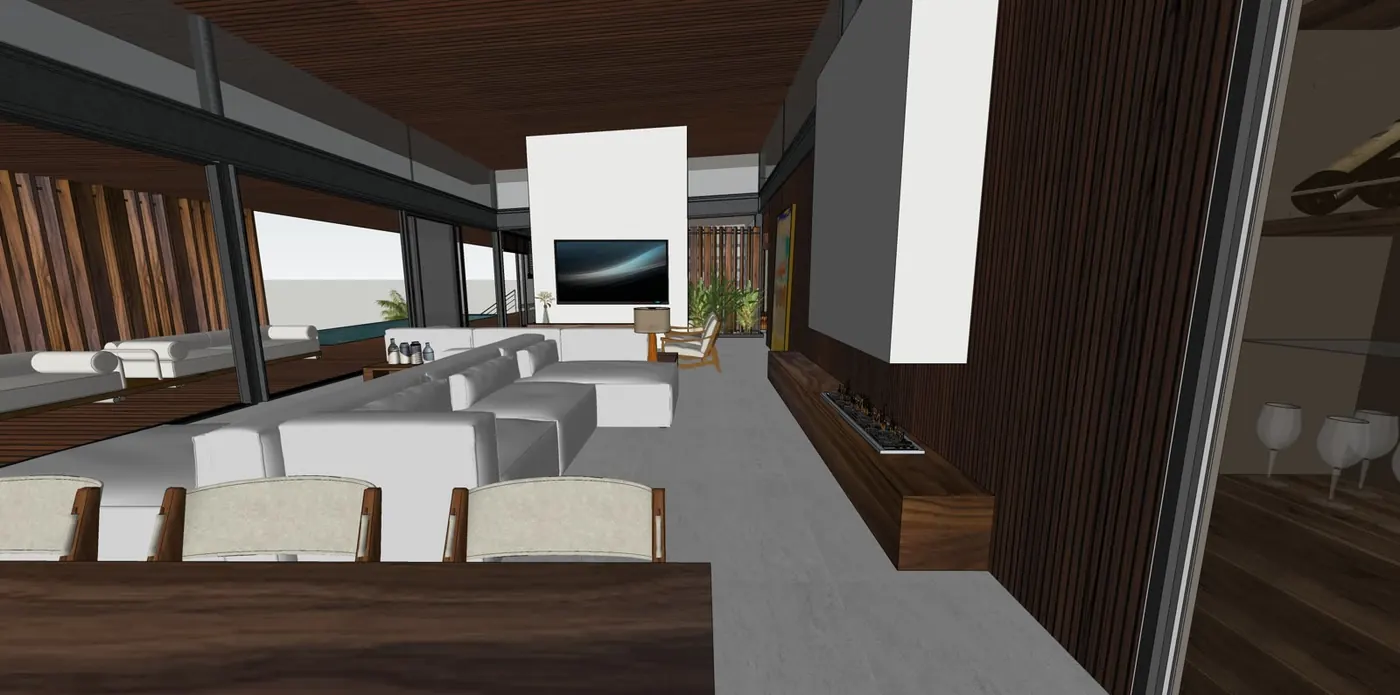
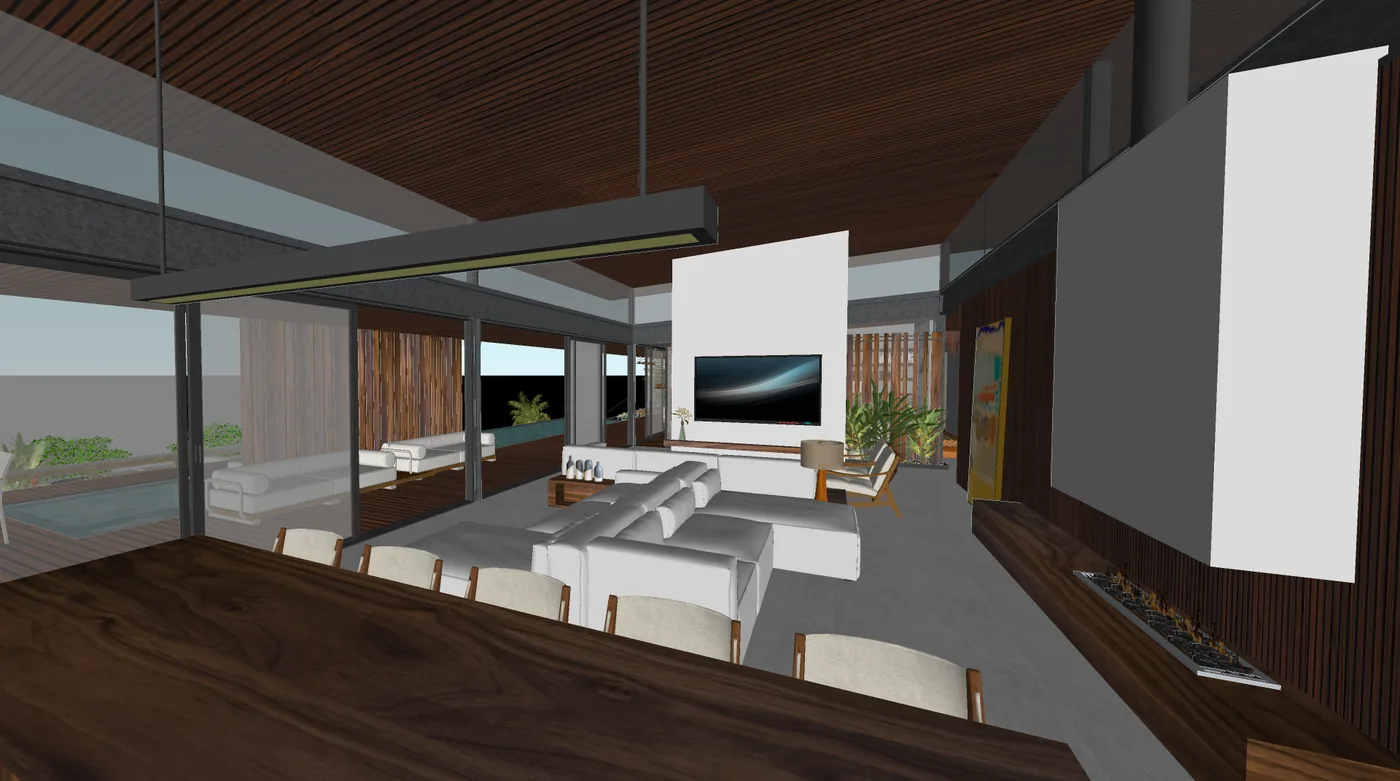
Corrige os pares render/foto do Reserva do Mediterraneo
Quatro das cinco comparacoes mostravam render e foto de ambientes
diferentes. Os renders corretos foram achados no acervo 3D do projeto
(Drive, "Imagens 3d" e "Imagens 3d para video") batendo camera a camera:

  02 fachada  -> img 46      (era um render de jardim, errado)
  06 living   -> img 31      (mesmo ambiente, agora no enquadramento certo)
  10 cozinha  -> img 65.1    (mostrava a sala, errado)
  07 estar    -> img 27      (par novo, camera identica)
  09 deck     -> img 18      (par novo, camera identica)

Deck-piscina (03) e patio interno (16) nao tem render correspondente no
acervo, entao deixaram de ser comparaveis e viraram fotos simples, em
vez de exibir um par falso.

Os renders passam a ser gerados em 1400x781, o mesmo tamanho das fotos.
Antes saiam em 1400x695: com object-fit cover num quadro 16/10 os dois
lados eram recortados de forma diferente e a alca do comparador nunca
alinhava as duas imagens.

diff --git a/index.html b/index.html
@@ -335,16 +335,18 @@
       <img src="assets/mediterraneo/02-fachada-golden.webp" alt="Fachada ao entardecer" loading="lazy">
     </figure>
     <figure><img src="assets/mediterraneo/05-aerea.webp" alt="Vista aérea" loading="lazy"></figure>
-    <figure class="paired" data-render="assets/pairs/mediterraneo/03-render.webp" data-real="assets/mediterraneo/03-deck-piscina.webp" data-scene="Deck e piscina">
-      <img src="assets/mediterraneo/03-deck-piscina.webp" alt="Deck e piscina" loading="lazy">
-    </figure>
+    <figure><img src="assets/mediterraneo/03-deck-piscina.webp" alt="Deck e piscina" loading="lazy"></figure>
     <figure><img src="assets/mediterraneo/04-lounge-firepit.webp" alt="Lounge externo com fire pit" loading="lazy"></figure>
     <figure class="wide paired" data-render="assets/pairs/mediterraneo/06-render.webp" data-real="assets/mediterraneo/06-living-lareira.webp" data-scene="Living com lareira">
       <img src="assets/mediterraneo/06-living-lareira.webp" alt="Living com lareira" loading="lazy">
     </figure>
-    <figure><img src="assets/mediterraneo/07-estar-integrado.webp" alt="Estar integrado ao deck" loading="lazy"></figure>
+    <figure class="paired" data-render="assets/pairs/mediterraneo/07-render.webp" data-real="assets/mediterraneo/07-estar-integrado.webp" data-scene="Estar integrado ao deck">
+      <img src="assets/mediterraneo/07-estar-integrado.webp" alt="Estar integrado ao deck" loading="lazy">
+    </figure>
     <figure><img src="assets/mediterraneo/08-area-piscina-coberta.webp" alt="Área de piscina coberta" loading="lazy"></figure>
-    <figure><img src="assets/mediterraneo/09-deck-lounge-golden.webp" alt="Deck lounge golden hour" loading="lazy"></figure>
+    <figure class="paired" data-render="assets/pairs/mediterraneo/09-render.webp" data-real="assets/mediterraneo/09-deck-lounge-golden.webp" data-scene="Deck lounge">
+      <img src="assets/mediterraneo/09-deck-lounge-golden.webp" alt="Deck lounge golden hour" loading="lazy">
+    </figure>
     <figure class="paired" data-render="assets/pairs/mediterraneo/10-render.webp" data-real="assets/mediterraneo/10-cozinha-ilha.webp" data-scene="Cozinha com ilha">
       <img src="assets/mediterraneo/10-cozinha-ilha.webp" alt="Cozinha com ilha" loading="lazy">
     </figure>
@@ -352,9 +354,7 @@
     <figure><img src="assets/mediterraneo/12-suite-master.webp" alt="Suíte master" loading="lazy"></figure>
     <figure class="wide"><img src="assets/mediterraneo/13-banheira-externa.webp" alt="Banheira externa com vegetação" loading="lazy"></figure>
     <figure><img src="assets/mediterraneo/14-bancada-dupla.webp" alt="Banheiro com bancada dupla" loading="lazy"></figure>
-    <figure class="paired" data-render="assets/pairs/mediterraneo/16-render.webp" data-real="assets/mediterraneo/16-patio-interno.webp" data-scene="Pátio interno">
-      <img src="assets/mediterraneo/16-patio-interno.webp" alt="Pátio interno" loading="lazy">
-    </figure>
+    <figure><img src="assets/mediterraneo/16-patio-interno.webp" alt="Pátio interno" loading="lazy"></figure>
     <figure><img src="assets/mediterraneo/17-suite-deck.webp" alt="Suíte aberta para o deck" loading="lazy"></figure>
   </div>
 
